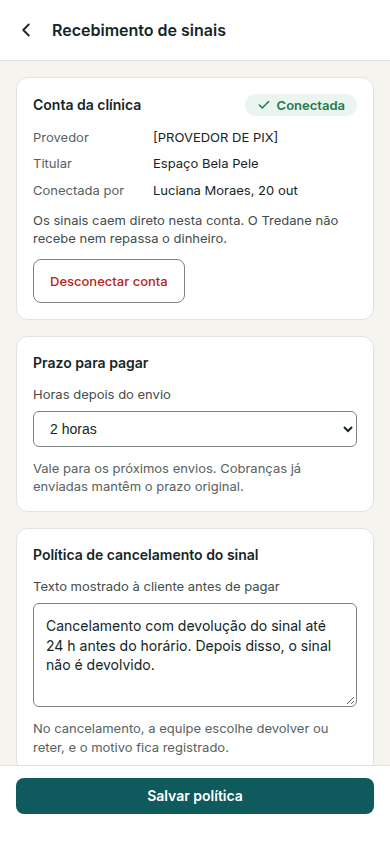
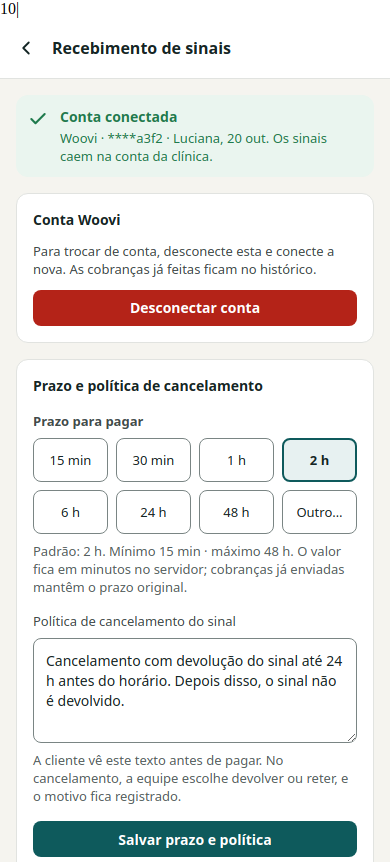
docs(design): M-33 prazo em presets + Outro… (Proposto) (#731)
Substitui o select/campo em horas do Recebimento por chips
15 min–48 h com Outro… (número + min|h), alinhado à DEC-175.
Atualiza screens, ux-ui e preview PNG; expand_dc cobre sc-if.

diff --git a/docs/design/mobile/Recebimento.dc.html b/docs/design/mobile/Recebimento.dc.html
@@ -7,17 +7,24 @@
 </head>
 <body>
 <x-dc>
-<helmet>
+    10|<helmet>
 <link rel="preconnect" href="https://fonts.googleapis.com">
-<link href="https://fonts.googleapis.com/css2?family=Inter:wght@400;500;600&amp;display=swap" rel="stylesheet">
+<link href="https://fonts.googleapis.com/css2?family=Roboto:wght@400;500;600&amp;display=swap" rel="stylesheet">
 <style>
 body{margin:0}
 a{color:#0E5A5C}a:hover{color:#0A4547}
-button{font:inherit}
-button:focus-visible,a:focus-visible{outline:2px solid #0E5A5C;outline-offset:2px}
+button,input,textarea,select{font:inherit}
+button:focus-visible,a:focus-visible,input:focus-visible,textarea:focus-visible,select:focus-visible{outline:2px solid #0E5A5C;outline-offset:2px}
 </style>
 </helmet>
-<div style="width: 390px; height: 844px; box-sizing: border-box; background: #F5F4EF; color: #142625; font-family: Inter, system-ui, sans-serif; font-size: 14px; line-height: 1.4; display: flex; flex-direction: column; overflow: hidden">
+<!--
+  M-33 Recebimento — Prazo e política de cancelamento.
+  Proposto (Paulo, 13/11/2026): prazo em presets discretos (minutos internamente)
+  + «Outro…» com número e unidade min|h (mín. 15 min, máx. 48 h).
+  Fecha o Em aberto de DEC-175 («prazo do Pix em opções») como proposta de UI;
+  ainda não é decisão Confirmada. DEC-047 (padrão 2 h) mantém-se.
+-->
+<div style="width: 390px; height: 844px; box-sizing: border-box; background: #F5F4EF; color: #142625; font-family: Roboto, &quot;Helvetica Neue&quot;, Helvetica, Arial, sans-serif; font-size: 14px; line-height: 1.4; display: flex; flex-direction: column; overflow: hidden">
 
 <header style="background: #FFFFFF; border-bottom: 1px solid #E1E3E0; display: flex; align-items: center; gap: 4px; padding: 8px 4px">
 <a href="Clinica.dc.html" aria-label="Voltar para Clínica" style="width: 44px; height: 44px; display: flex; align-items: center; justify-content: center; color: #142625; border-radius: 999px"><svg aria-hidden="true" width="22" height="22" viewBox="0 0 24 24" fill="none" stroke="currentColor" stroke-width="2" stroke-linecap="round" stroke-linejoin="round"><path d="M15 6l-6 6 6 6"></path></svg></a>
@@ -25,32 +32,62 @@ button:focus-visible,a:focus-visible{outline:2px solid #0E5A5C;outline-offset:2p
 </header>
 
 <div style="flex: 1; overflow-y: auto; padding: 16px; display: flex; flex-direction: column; gap: 16px">
-<section aria-labelledby="c-t" style="background: #FFFFFF; border: 1px solid #E1E3E0; border-radius: 12px; padding: 16px; display: flex; flex-direction: column; gap: 12px">
-<div style="display: flex; align-items: center; justify-content: space-between; gap: 8px">
-<h2 id="c-t" style="margin: 0; font-size: 14px; font-weight: 600">Conta da clínica</h2>
-<span style="display: flex; align-items: center; gap: 6px; padding: 2px 12px; border-radius: 999px; background: #EAF5EF; color: #1F7A4D; font-size: 13px; font-weight: 600"><svg aria-hidden="true" width="14" height="14" viewBox="0 0 24 24" fill="none" stroke="currentColor" stroke-width="2.5" stroke-linecap="round" stroke-linejoin="round"><path d="M20 6L9 17l-5-5"></path></svg>Conectada</span>
+
+<div role="status" style="display: flex; gap: 12px; align-items: flex-start; padding: 12px; border-radius: 12px; background: #EAF5EF; color: #1F7A4D">
+<svg aria-hidden="true" width="20" height="20" viewBox="0 0 24 24" fill="none" stroke="currentColor" stroke-width="2.5" stroke-linecap="round" stroke-linejoin="round" style="flex: none; margin-top: 2px"><path d="M20 6L9 17l-5-5"></path></svg>
+<div style="display: flex; flex-direction: column; gap: 2px; min-width: 0">
+<strong style="font-size: 14px; font-weight: 600">Conta conectada</strong>
+<span style="font-size: 13px">Woovi · ****a3f2 · Luciana, 20 out. Os sinais caem na conta da clínica.</span>
 </div>
-<dl style="margin: 0; display: grid; grid-template-columns: 112px minmax(0, 1fr); gap: 8px; font-size: 13px">
-<dt style="color: #566160">Provedor</dt><dd style="margin: 0">[PROVEDOR DE PIX]</dd>
-<dt style="color: #566160">Titular</dt><dd style="margin: 0">Espaço Bela Pele</dd>
-<dt style="color: #566160">Conectada por</dt><dd style="margin: 0">Luciana Moraes, 20 out</dd>
-</dl>
-<p style="margin: 0; font-size: 13px; color: #424B4A">Os sinais caem direto nesta conta. O Tredane não recebe nem repassa o dinheiro.</p>
-<button type="button" style="align-self: flex-start; min-height: 44px; padding: 0 16px; border: 1px solid #7A8584; border-radius: 8px; background: #FFFFFF; color: #B42318; font-size: 13px; font-weight: 500; cursor: pointer">Desconectar conta</button>
+</div>
+
+<section aria-labelledby="c-t" style="background: #FFFFFF; border: 1px solid #E1E3E0; border-radius: 12px; padding: 16px; display: flex; flex-direction: column; gap: 12px">
+<h2 id="c-t" style="margin: 0; font-size: 14px; font-weight: 600">Conta Woovi</h2>
+<p style="margin: 0; font-size: 13px; color: #424B4A">Para trocar de conta, desconecte esta e conecte a nova. As cobranças já feitas ficam no histórico.</p>
+<button type="button" style="align-self: stretch; min-height: 36px; padding: 0 16px; border: 0; border-radius: 8px; background: #B42318; color: #FFFFFF; font-size: 14px; font-weight: 600; cursor: pointer">Desconectar conta</button>
 </section>
 
-<section aria-labelledby="z-t" style="background: #FFFFFF; border: 1px solid #E1E3E0; border-radius: 12px; padding: 16px; display: flex; flex-direction: column; gap: 12px">
-<h2 id="z-t" style="margin: 0; font-size: 14px; font-weight: 600">Prazo para pagar</h2>
-<label style="display: flex; flex-direction: column; gap: 8px; font-size: 13px; color: #424B4A">Horas depois do envio
-<select style="height: 36px; padding: 0 12px; border: 1px solid #7A8584; border-radius: 6px; background: #FFFFFF; font-size: 14px; color: #142625"><option>1 hora</option><option selected>2 horas</option><option>4 horas</option><option>12 horas</option><option>24 horas</option></select></label>
-<span style="font-size: 13px; color: #566160">Vale para os próximos envios. Cobranças já enviadas mantêm o prazo original.</span>
-</section>
+<section aria-labelledby="p-t" style="background: #FFFFFF; border: 1px solid #E1E3E0; border-radius: 12px; padding: 16px; display: flex; flex-direction: column; gap: 16px">
+<h2 id="p-t" style="margin: 0; font-size: 14px; font-weight: 600">Prazo e política de cancelamento</h2>
 
-<section aria-labelledby="p-t" style="background: #FFFFFF; border: 1px solid #E1E3E0; border-radius: 12px; padding: 16px; display: flex; flex-direction: column; gap: 12px">
-<h2 id="p-t" style="margin: 0; font-size: 14px; font-weight: 600">Política de cancelamento do sinal</h2>
-<label style="display: flex; flex-direction: column; gap: 8px; font-size: 13px; color: #424B4A">Texto mostrado à cliente antes de pagar
-<textarea rows="4" style="padding: 12px; border: 1px solid #7A8584; border-radius: 6px; font: inherit; font-size: 14px; line-height: 1.4; color: #142625; resize: vertical">Cancelamento com devolução do sinal até 24 h antes do horário. Depois disso, o sinal não é devolvido.</textarea></label>
-<span style="font-size: 13px; color: #566160">No cancelamento, a equipe escolhe devolver ou reter, e o motivo fica registrado.</span>
+<div role="group" aria-labelledby="z-l" style="display: flex; flex-direction: column; gap: 8px">
+<span id="z-l" style="font-size: 13px; font-weight: 600; color: #424B4A">Prazo para pagar</span>
+<div style="display: grid; grid-template-columns: repeat(4, 1fr); gap: 8px">
+<button type="button" aria-pressed="{{p15}}" onClick="{{pick15}}" style="{{s15}}">15 min</button>
+<button type="button" aria-pressed="{{p30}}" onClick="{{pick30}}" style="{{s30}}">30 min</button>
+<button type="button" aria-pressed="{{p60}}" onClick="{{pick60}}" style="{{s60}}">1 h</button>
+<button type="button" aria-pressed="{{p120}}" onClick="{{pick120}}" style="{{s120}}">2 h</button>
+<button type="button" aria-pressed="{{p360}}" onClick="{{pick360}}" style="{{s360}}">6 h</button>
+<button type="button" aria-pressed="{{p1440}}" onClick="{{pick1440}}" style="{{s1440}}">24 h</button>
+<button type="button" aria-pressed="{{p2880}}" onClick="{{pick2880}}" style="{{s2880}}">48 h</button>
+<button type="button" aria-pressed="{{pOther}}" onClick="{{pickOther}}" style="{{sOther}}">Outro…</button>
+</div>
+<span style="font-size: 13px; color: #566160">Padrão: 2 h. Mínimo 15 min · máximo 48 h. O valor fica em minutos no servidor; cobranças já enviadas mantêm o prazo original.</span>
+</div>
+
+<sc-if value="{{isOther}}" hint-placeholder-val="{{ false }}">
+<div style="display: flex; flex-direction: column; gap: 8px; padding: 12px; border-radius: 8px; background: #EEEDE7">
+<span style="font-size: 13px; font-weight: 600; color: #424B4A">Prazo personalizado</span>
+<div style="display: flex; gap: 8px; align-items: stretch">
+<label style="flex: 1; display: flex; flex-direction: column; gap: 4px; font-size: 13px; color: #424B4A">Número
+<input type="number" inputmode="numeric" min="1" value="90" aria-describedby="z-help" style="height: 36px; box-sizing: border-box; padding: 0 12px; border: 1px solid #7A8584; border-radius: 8px; background: #FFFFFF; color: #142625; font-size: 14px; font-variant-numeric: tabular-nums"></label>
+<div role="group" aria-label="Unidade" style="flex: none; display: flex; flex-direction: column; gap: 4px">
+<span style="font-size: 13px; color: #424B4A">Unidade</span>
+<div style="display: flex; height: 36px; border: 1px solid #7A8584; border-radius: 8px; overflow: hidden; background: #FFFFFF">
+<button type="button" aria-pressed="true" style="min-width: 52px; border: 0; background: #142625; color: #FFFFFF; font-size: 13px; font-weight: 600; cursor: pointer">min</button>
+<button type="button" aria-pressed="false" style="min-width: 52px; border: 0; border-left: 1px solid #E1E3E0; background: #FFFFFF; color: #142625; font-size: 13px; cursor: pointer">h</button>
+</div>
+</div>
+</div>
+<span id="z-help" style="font-size: 13px; color: #566160">Exemplo: 90 min (= 1 h 30). Fora de 15 min–48 h o Salvar fica desabilitado.</span>
+</div>
+</sc-if>
+
+<label style="display: flex; flex-direction: column; gap: 8px; font-size: 13px; color: #424B4A">Política de cancelamento do sinal
+<textarea rows="4" style="padding: 12px; border: 1px solid #7A8584; border-radius: 8px; font: inherit; font-size: 14px; line-height: 1.4; color: #142625; resize: vertical; background: #FFFFFF">Cancelamento com devolução do sinal até 24 h antes do horário. Depois disso, o sinal não é devolvido.</textarea></label>
+<span style="font-size: 13px; color: #566160; margin-top: -8px">A cliente vê este texto antes de pagar. No cancelamento, a equipe escolhe devolver ou reter, e o motivo fica registrado.</span>
+
+<button type="button" style="width: 100%; height: 36px; border: 0; border-radius: 8px; background: #0E5A5C; color: #FFFFFF; font-size: 14px; font-weight: 600; cursor: pointer">Salvar prazo e política</button>
 </section>
 
 <section aria-labelledby="s-t" style="display: flex; flex-direction: column; gap: 8px">
@@ -61,17 +98,36 @@ button:focus-visible,a:focus-visible{outline:2px solid #0E5A5C;outline-offset:2p
 </ul>
 </section>
 </div>
-
-<div style="flex: none; background: #FFFFFF; border-top: 1px solid #E1E3E0; padding: 12px 16px 30px">
-<button type="button" style="width: 100%; height: 36px; border: 0; border-radius: 8px; background: #0E5A5C; color: #FFFFFF; font-size: 14px; font-weight: 600; cursor: pointer">Salvar política</button>
-</div>
 </div>
 </x-dc>
 <script type="text/x-dc" data-dc-script data-props='{"$preview":{"width":390,"height":844}}'>
 class Component extends DCLogic {
-renderVals() {
-return {};
-}
+  constructor(props) {
+    super(props);
+    this.state = { minutes: 120 }; // padrão Confirmado DEC-047
+  }
+  chip(on) {
+    return on
+      ? 'border: 2px solid #0E5A5C; background: #E7F1F1; color: #142625; border-radius: 8px; min-height: 44px; cursor: pointer; font-size: 13px; font-weight: 600'
+      : 'border: 1px solid #7A8584; background: #FFFFFF; color: #142625; border-radius: 8px; min-height: 44px; cursor: pointer; font-size: 13px';
+  }
+  renderVals() {
+    const presets = [15, 30, 60, 120, 360, 1440, 2880];
+    const m = this.state.minutes;
+    const isOther = !presets.includes(m);
+    const pick = (n) => () => this.setState({ minutes: n });
+    return {
+      isOther,
+      p15: m === 15, p30: m === 30, p60: m === 60, p120: m === 120,
+      p360: m === 360, p1440: m === 1440, p2880: m === 2880, pOther: isOther,
+      s15: this.chip(m === 15), s30: this.chip(m === 30), s60: this.chip(m === 60),
+      s120: this.chip(m === 120), s360: this.chip(m === 360), s1440: this.chip(m === 1440),
+      s2880: this.chip(m === 2880), sOther: this.chip(isOther),
+      pick15: pick(15), pick30: pick(30), pick60: pick(60), pick120: pick(120),
+      pick360: pick(360), pick1440: pick(1440), pick2880: pick(2880),
+      pickOther: () => this.setState({ minutes: 90 }),
+    };
+  }
 }
 </script>
 </body>

diff --git a/docs/product/ux-ui.md b/docs/product/ux-ui.md
@@ -240,7 +240,7 @@ A IA não preenche nem confirma este painel no MVP (ADR-0004).
 **Equipe (M-18).** Membros com papel (Responsável, Atendente), convites pendentes e gestão de acesso. **Confirmado (Paulo, 01/11/2026; DEC-103):** o responsável convida **Atendente** ou **Responsável**, promove attendant→owner, despromove owner→attendant e remove attendants e outros responsáveis — com proteção do último owner (não remove/despromove o único responsável ativo). Superadmin/Platform Admin continua a gerir owners. **Confirmado (Paulo, 1/11/2026):** copy **Atendente** na hub («Convidar atendentes») e na UI — não «recepcionistas». **Confirmado (Paulo, 1/11/2026; DEC-102):** cada membro na lista mostra **nome e e-mail** (enriquecidos no Worker via Clerk Backend); o `clerkUserId` não é o rótulo principal. Convites por e-mail expiram em 7 dias; **Reenviar** gera novo link e invalida o anterior, com espera de 10 min e até 5 reenvios em 24 h; qualquer responsável cancela um convite (DEC-021 a DEC-025). Remoção (S2): confirmação «Remover acesso», `POST …/members/:clerkUserId/revoke`; o alvo perde HTTP/WS só nesta clínica (REQ-003 / AC-02 / DEC-026); último owner → `last_owner_protected`. Promoção/despromoção: `POST …/members/:id/promote` e `…/demote`. **Aceite do link (S3):** `/invite/accept` autentica se preciso, chama `POST /api/invitations/accept` (role do D1) e entra na clínica. Suporte do Tredane (faixa TEL-10): fora do primeiro recorte de Equipe; ver TEL-10. **Layout (Paulo, 12/11/2026, «implementa»):** cabeçalho com «Equipe», resumo («N membros · N convites pendentes») e **Convidar pessoa** no topo (largura total no celular), no fluxo do documento, não sticky (#675); membros em linhas com o papel à direita (sob o e-mail no celular) e ⋮; convites em linhas com avatar tracejado, «Pendente» junto ao e-mail, **Reenviar** (secundário) e **Cancelar convite** (texto vermelho, sem contorno) na mesma linha (metade cada no celular), e a regra dos reenvios uma só vez no pé da lista; «Como responsável, você» numa coluna lateral (abaixo, em telas estreitas). O mock `mobile/Equipe.dc.html` e o preview ainda mostram o layout anterior.
 
 - **Revisão da Equipe (Confirmado, DEC-171, Paulo 12/11/2026, «Implementa»; mocks M-77 e M-78; implementado):** cancelar um convite pede confirmação; responsável em teal neutro, não no roxo da IA; desktop numa coluna de até 760 px com **Convidar pessoa** ao lado do título; títulos com contagem e sem o selo «Pendente»; no desktop **Reenviar** e **Cancelar…** em texto na linha do convite, no celular no ⋮ (folha); a regra dos reenvios só junto à ação; bloco recolhido «O que cada papel pode fazer» no lugar de «Como responsável, você».
-- **Clínica normalizada (Confirmado, DEC-175, Paulo 13/11/2026; implementado):** no desktop todas as opções abrem ao lado da navegação lateral, mesmo a carregar, com a coluna centrada (760 px; 1040 px no início e no Conferir) e sem botão de voltar; cabeçalho de página com título e uma frase. Carregamento: esqueleto com a forma da tela depois de 300 ms, sem spinner de página; o que chega num segundo pedido não empurra a tela. Recebimento em faixa de estado e dois cartões com a resposta junto do botão; WhatsApp com modelos em cartão e ferramentas de staging recolhidas; Conferir em tabela com a linha inteira a abrir a ficha; Equipe sem contagem repetida e, sem nome, com o e-mail no lugar. **Em aberto:** prazo do Pix em opções.
+- **Clínica normalizada (Confirmado, DEC-175, Paulo 13/11/2026; implementado):** no desktop todas as opções abrem ao lado da navegação lateral, mesmo a carregar, com a coluna centrada (760 px; 1040 px no início e no Conferir) e sem botão de voltar; cabeçalho de página com título e uma frase. Carregamento: esqueleto com a forma da tela depois de 300 ms, sem spinner de página; o que chega num segundo pedido não empurra a tela. Recebimento em faixa de estado e dois cartões com a resposta junto do botão; WhatsApp com modelos em cartão e ferramentas de staging recolhidas; Conferir em tabela com a linha inteira a abrir a ficha; Equipe sem contagem repetida e, sem nome, com o e-mail no lugar. **Proposto (13/11/2026, mock M-33):** prazo do Pix em presets + **Outro…** (fecha o antigo Em aberto «prazo do Pix em opções»); aguarda confirmação do Paulo antes de implementar no painel.
 - **Ficha do serviço revista (Confirmado, DEC-176, Paulo 12/11/2026, «Implementa tudo»; mocks M-79 a M-82; implementado):** «Nome no catálogo» e «Também chamam de» (a resposta usa sempre o nome do catálogo); «Como a cliente escolhe» em três segmentos e «Para quem» logo abaixo, com o aviso de conflito e **Usar «Qualquer»**; «Como se chama cada opção» avisa singular igual ao plural; opções agrupadas pelo nome, com tempo e preço por público e os sinônimos à vista, sem rolagem interna; a folha da opção tem nome e sinônimos comuns, uma linha por público, **Remover zona…** à esquerda com confirmação e **Cancelar** / **Aplicar**; «Alterações por salvar» no rodapé; «Como fica na agenda» com a regra do modo e um exemplo; a linha «Para quem» e o item «Explicação para a IA» saem da lista de baixo. Nova vista **O que a IA reconhece** a partir da lista de Serviços.
 
 **WhatsApp (M-19, M-23 a M-25).** Quatro estados da conexão (DEC-009, REQ-051):
@@ -310,10 +310,10 @@ Mocks: `desktop/ClientesLista.dc.html`, `desktop/ClientesFicha.dc.html` (screens
 - **Agendar (M-04, variante M-34):** com serviço que exige sinal, o rodapé mostra “Sinal de R$ X · horário não fica reservado até o pagamento” e o botão **Enviar sinal de R$ X**. Sem conta de recebimento, o botão fica desabilitado com o motivo.
 - **Na conversa (M-31):** a mensagem de cobrança aparece como enviada, com um cartão interno do estado: **Aguardando sinal** (prazo restante, **Copiar Pix**, **Cancelar cobrança**), **Pago** (confirmado para o horário), **Expirada** (**Enviar novo sinal**), **Estorno solicitado/Devolvido/Estorno falhou**.
 - **Pago sem horário (M-32):** faixa de alerta na conversa e no Acompanhamento, com **Escolher outro horário** e **Devolver sinal**.
-- **Recebimento (M-33):** na área Clínica, só para a responsável: estado da conta conectada, **Conectar conta** e **Desconectar**, política de cancelamento do sinal.
+- **Recebimento (M-33):** na área Clínica, só para a responsável: estado da conta conectada, **Conectar conta** e **Desconectar**, cartão **Prazo e política de cancelamento**. **Proposto (13/11/2026, mock M-33):** o prazo deixa o campo livre em horas e passa a presets (**15 min · 30 min · 1 h · 2 h · 6 h · 24 h · 48 h**, valor atual selecionado; padrão Confirmado 2 h, DEC-047) mais **Outro…** (número + unidade min|h, mínimo 15 min, máximo 48 h). O backend continua a guardar o prazo em minutos (hoje `deadlineSeconds`). A política escrita e **Salvar prazo e política** mantêm-se.
 - **Serviço (M-16):** “Exige sinal”, tipo (valor fixo ou % do preço) e resumo do valor.
 - **Cancelar compromisso com sinal pago:** o diálogo de cancelamento ganha a escolha **Devolver sinal** ou **Reter sinal**, com a política da clínica.
-- **Confirmado (24/10/2026):** o compromisso é confirmado sozinho ao receber o pagamento se o horário estiver livre; prazo padrão de 2 horas, ajustável em M-33; **Confirmar sem sinal** na tela Agendar, com motivo obrigatório.
+- **Confirmado (24/10/2026):** o compromisso é confirmado sozinho ao receber o pagamento se o horário estiver livre; prazo padrão de 2 horas, ajustável em M-33; **Confirmar sem sinal** na tela Agendar, com motivo obrigatório. A forma do ajuste em M-33 (campo em horas vs presets + Outro…) é a proposta de 13/11/2026 acima — ainda **Proposto**.
 - **Em aberto:** texto do modelo de WhatsApp com a cobrança.
 
 ### TEL-10 — Suporte do Tredane (aprovação por sessão)

diff --git a/docs/design/screens.md b/docs/design/screens.md
@@ -54,7 +54,7 @@ Cada linha liga um mock a sua especificação. **A especificação manda:** em c
 | M-30 | `IaCasos` | §6.3 IA | JRN-02 · REQ-073, REQ-074, REQ-075 · AC-41, AC-42, AC-43 | Referência de três estados do bloco de IA: serviço sem preço, mensagem ofensiva, procedimento com explicação da clínica e assunto clínico | M-02 |
 | M-31 | `SinalConversa` | TEL-11 | JRN-16 · REQ-078, REQ-081, REQ-082 · AC-46, AC-49, AC-50 | Mensagem de cobrança enviada, cartão **Aguardando sinal** (horário, prazo, recebe na conta da clínica, aviso de horário não reservado), **Copiar Pix**, **Cancelar cobrança**; demais estados do cartão | M-02, M-32 |
 | M-32 | `SinalSemHorario` | TEL-11 | JRN-16 · REQ-079, REQ-080 · AC-47, AC-48 | Alerta **Sinal pago, mas o horário foi ocupado**, próximos horários, **Confirmar com o sinal pago**, **Devolver sinal** | M-02 |
-| M-33 | `Recebimento` | TEL-11 | JRN-16 · REQ-076, REQ-077 · AC-44, AC-45 | Conta da clínica conectada (Woovi / OpenPix, DEC-049), política de cancelamento do sinal, prazo para pagar (padrão 2 horas), serviços com sinal; só responsável | M-15 |
+| M-33 | `Recebimento` | TEL-11 | JRN-16 · REQ-076, REQ-077 · AC-44, AC-45 · DEC-047, DEC-175 | Faixa «Conta conectada», cartão Conta Woovi e cartão **Prazo e política de cancelamento**: prazo em presets discretos (**15 min · 30 min · 1 h · 2 h · 6 h · 24 h · 48 h**, atual selecionado; padrão **2 h**), **Outro…** abre número + unidade min\|h (mín. 15 min, máx. 48 h; valor em minutos no servidor); textarea da política + **Salvar prazo e política**; serviços com sinal. **Proposto** (13/11/2026) — fecha o Em aberto de DEC-175 («prazo do Pix em opções») como UI; ainda não Confirmado. Mock interativo: toque nos presets / Outro… | M-15 |
 | M-34 | `AgendarSinal` | TEL-11 | JRN-16 · REQ-078 · AC-46, AC-51 | Variante de M-04 com serviço que exige sinal: aviso de valor e de horário não reservado, folha com valor, prazo (padrão 2 h, configurável), **Enviar sinal** e **Confirmar sem sinal** com motivo em chips (Paciente frequente, Pagará na clínica, Outro) | M-31, M-02 |
 | M-35 | `AgendarRevisao` | TEL-05 | JRN-03 · REQ-033 · DEC-061 | Folha inferior **Enviar proposta** (paciente, serviço, profissional, quando, sala, valor): com conversa, envia proposta versionada com botões Confirmar / Alterar detalhes (não marca nem muda etapa — DEC-061, Confirmado Paulo 31/10/2026); sem conversa mantém confirmar sem WhatsApp; layout com padding do cartão, secção WhatsApp e CTA «Enviar proposta» | M-04, M-38 |
 | M-36 | `AgendarConflito` | TEL-05 | JRN-03 · REQ-031 · AC-10 | Alerta «Nada foi reservado», escolhas mantidas, horário perdido riscado e alternativas próximas destacadas | M-04 |

diff --git a/docs/design/CHANGELOG.md b/docs/design/CHANGELOG.md
@@ -1,5 +1,9 @@
 # Histórico do design
 
+## 13/11/2026 — M-33 Recebimento: prazo em presets (**Proposto**)
+
+- `mobile/Recebimento.dc.html`: cartão **Prazo e política de cancelamento** com presets **15 min · 30 min · 1 h · 2 h · 6 h · 24 h · 48 h** (2 h selecionado no estado inicial) e **Outro…** (número + unidade min|h; mín. 15 min, máx. 48 h; valor conceptual em minutos). Mantém textarea da política e **Salvar prazo e política**. Alinha a DEC-175 (faixa + dois cartões). Fecha como UI o Em aberto «prazo do Pix em opções»; **não** implementa no painel até o Paulo confirmar.
+
 ## 12/11/2026 — DEC-176: ficha do serviço e «O que a IA reconhece»
 
 - `ServicesScreen` / `VariantCatalog`: modo e «Para quem» em segmentos (`vc-seg`), aviso de singular igual ao plural, opções agrupadas pelo nome (`variantGroups`), folha da opção com uma linha por público e **Aplicar**, «Alterações por salvar», «Como fica na agenda» com exemplo. `ServiceWords` em `/clinica/servicos/palavras`. Mocks M-79 `mobile/ServicoTopo`, M-80 `mobile/ServicoOpcoesAgrupadas`, M-81 `mobile/ServicoEditarOpcao` e M-82 `desktop/ServicosPalavras`.
